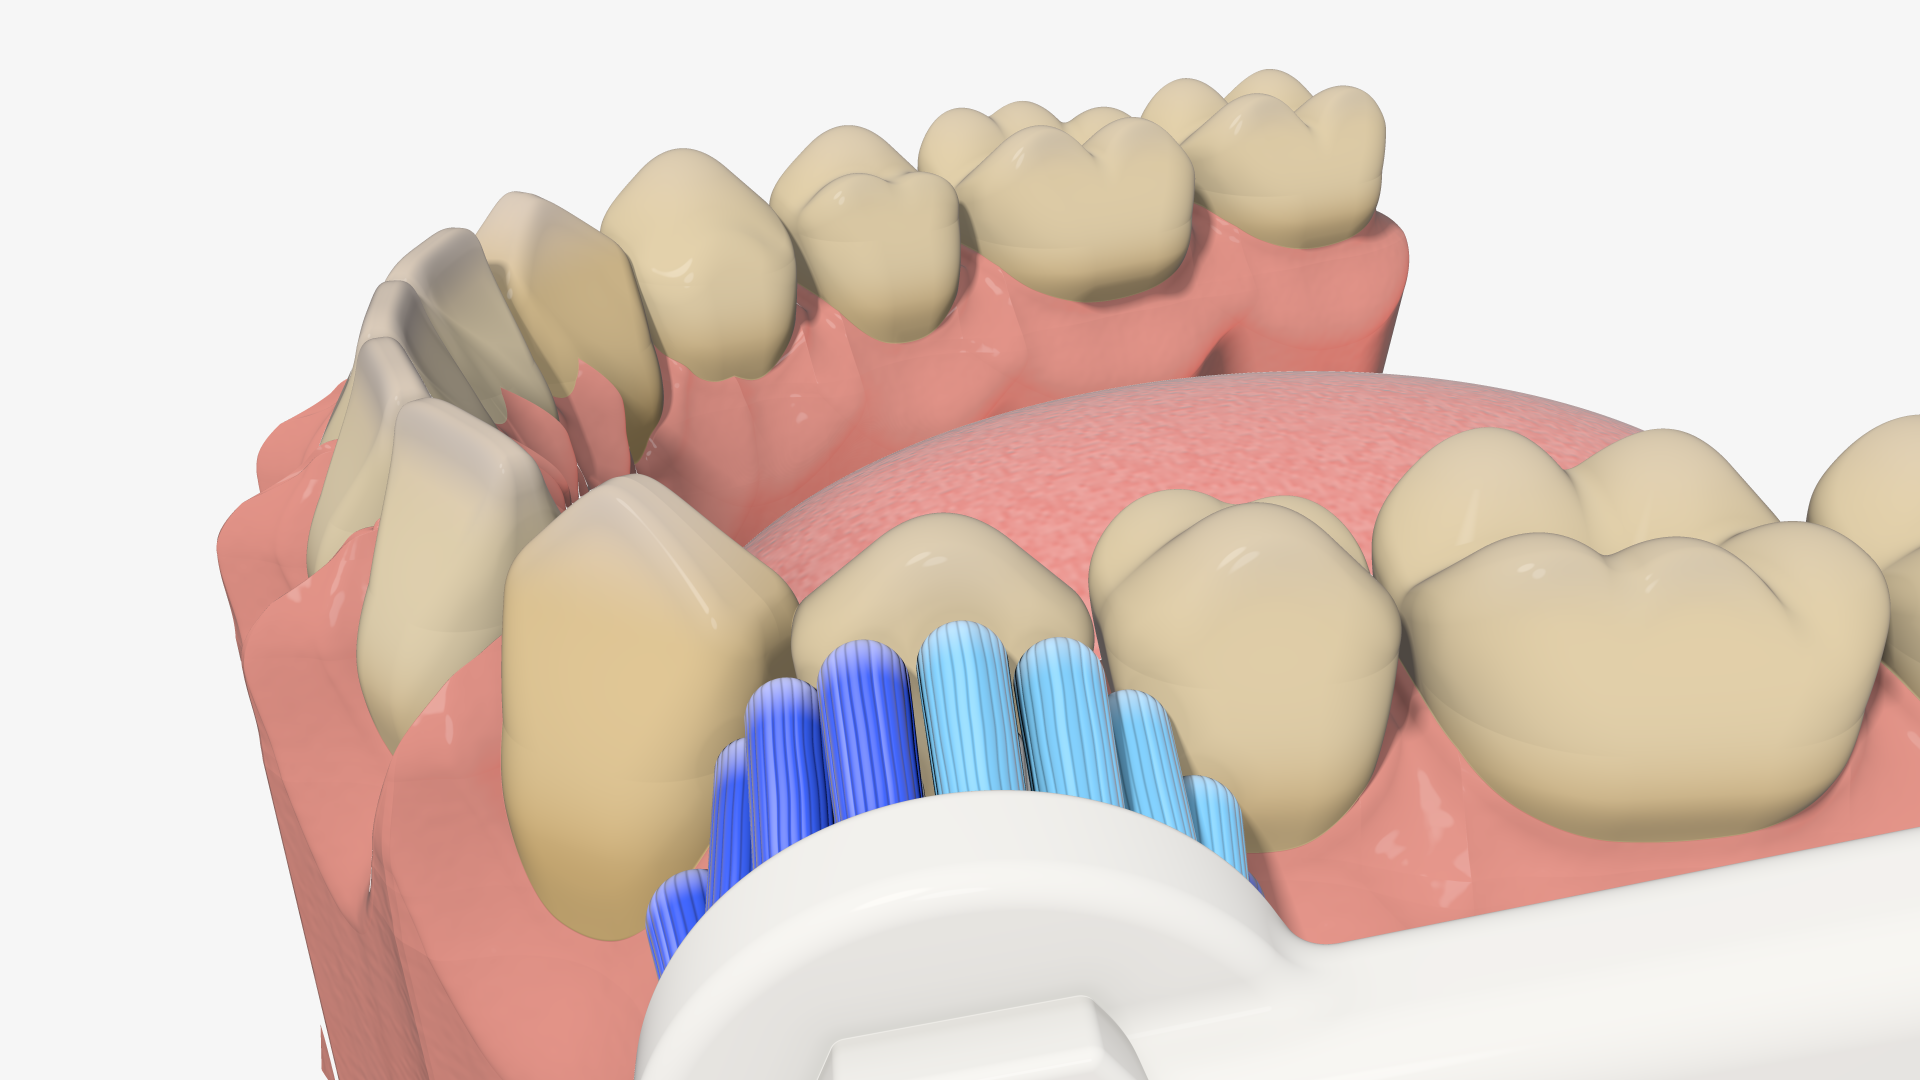
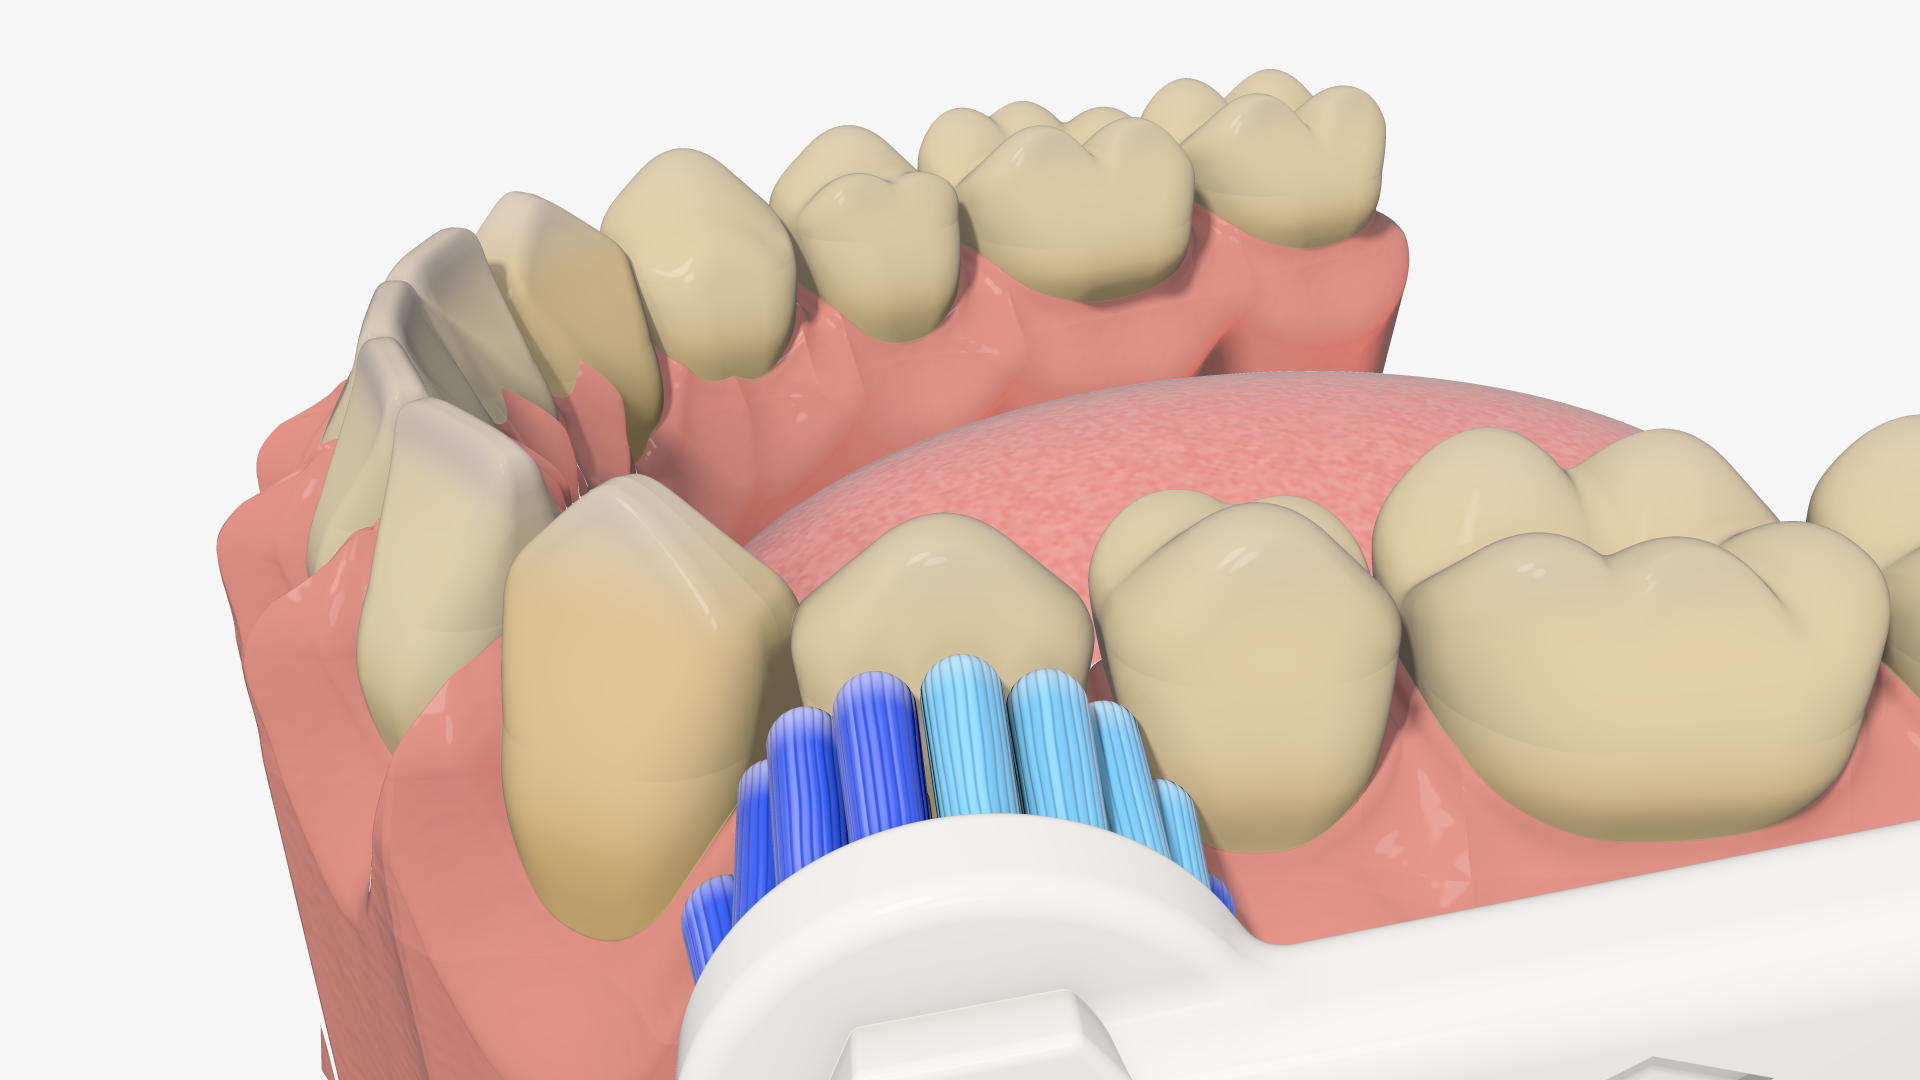
Step 22: a slightly smaller brush head, 11.5 mm instead of 13
The 13 mm head, from Oral-B's own "approximately 13mm" for its classic
round cup, read too big beside a 7 mm premolar. No maker publishes the
Precision Clean's millimetres; reviewers call it the smallest of the
standard round heads, and the newer iO is 2 mm wider than the
CrossAction (Clin Oral Investig 2024). So 11.5 mm, marked MODEL, with
the whole head scaled together to keep the photo's proportions and the
tufts at the bottom of Braun's patented 1.5-1.7 mm. Contact is still
cast from geometry: 0.00000 mm, none through; 10/10, both mutants
caught. README numbers updated to match.

Claude-Session: https://claude.ai/code/session_01Sx815ZFMDKuTuxMQYVftV1

diff --git a/step022_brush/Sources/Brush.swift b/step022_brush/Sources/Brush.swift
@@ -37,41 +37,52 @@ let brushedToothIndex: Int = 3
 
 // MARK: - the head, in sourced sizes
 
-/// Diameter of the round head. "The cup-shaped brush head has a diameter of
-/// approximately 13mm" (Oral-B's professional education site, dentalcare.ca,
-/// "Round for a reason"). That is for the maker's own round heads; the head in
-/// the photos is the same design, so its disc is taken as 13 mm.
-let headDiameter: Float = 13.0
+/// Diameter of the round head: 11.5 mm. The first render used 13 mm, from
+/// "the cup-shaped brush head has a diameter of approximately 13mm" (Oral-B's
+/// professional education site, dentalcare.ca, "Round for a reason"), and it
+/// read too big beside a 7 mm premolar. Russell asked for it slightly smaller.
+/// What the sources give: the 13 mm figure is for Oral-B's classic round
+/// cup; the newer iO head is 2 mm WIDER than the CrossAction ("Cleansing
+/// efficacy of the electric toothbrush Oral-B iO...", Clin Oral Investig 2024,
+/// PMC11339098); and reviewers call the Precision Clean — the design in the
+/// photos — the smallest of the maker's standard round heads (animated-teeth
+/// .com). No maker publishes its millimetres. MODEL: 11.5 mm, a little under
+/// the classic 13, and every other part of the head scales with it by
+/// `headScale`, so the brush keeps the proportions of the one in the photos.
+let headDiameter: Float = 11.5
+/// How much smaller than the first render's 13 mm head everything is.
+let headScale: Float = headDiameter / 13.0
 
 /// Thickness of the disc that carries the tufts. MODEL: in the side-on photo
 /// the disc is about a quarter of its own diameter thick.
-let carrierThickness: Float = 3.0
+let carrierThickness: Float = 3.0 * headScale
 
 /// The hexagonal boss on the back of the disc: across its flats, and how far
 /// it stands proud. MODEL: in the photo of the back it spans a little under
 /// six tenths of the disc, and stands about half the disc's thickness.
-let hexAcrossFlats: Float = 7.5
-let hexHeight: Float = 1.5
+let hexAcrossFlats: Float = 7.5 * headScale
+let hexHeight: Float = 1.5 * headScale
 
 /// The neck: width and thickness where it meets the head and where it leaves
 /// the frame, and how long a piece of it is modelled. MODEL, from the photos:
 /// the neck is about four tenths of the disc wide at the head and widens
 /// steadily towards the handle.
-let neckWidthNear: Float = 5.0
-let neckWidthFar: Float = 8.0
-let neckThickNear: Float = 3.8
-let neckThickFar: Float = 5.5
+let neckWidthNear: Float = 5.0 * headScale
+let neckWidthFar: Float = 8.0 * headScale
+let neckThickNear: Float = 3.8 * headScale
+let neckThickFar: Float = 5.5 * headScale
 let neckLength: Float = 60.0
 /// How far behind the disc's front face the neck's front face sits. MODEL:
 /// in the side-on photo the neck runs along the back half of the disc.
-let neckSetBack: Float = 0.8
+let neckSetBack: Float = 0.8 * headScale
 
 // MARK: - the tufts, in sourced sizes
 
 /// Diameter of one tuft. "Standard tufts with a diameter of between 1.5 mm
 /// and 1.7 mm" (Braun GmbH, US 6,957,468 B2, "Toothbrush head with
-/// anchor-free bristle tufting", 2005). The middle of that range.
-let tuftDiameter: Float = 1.6
+/// anchor-free bristle tufting", 2005). The bottom of that range, so sixteen
+/// still fit round the smaller head (the first render used the middle, 1.6).
+let tuftDiameter: Float = 1.5
 
 /// Diameter of one filament: "nylon 6,12 filaments typically having a
 /// diameter of 0.15–0.25 mm, often 0.2 mm" (Unilever, EP 1 014 830 B1,
@@ -85,8 +96,9 @@ let filamentDiameter: Float = 0.2
 /// (6.5–9 mm against 13 mm). Manual-brush patents give 9 ± 1 mm for short
 /// tufts and 13 ± 1 mm for long ones (US 2010/0180392 A1, "Toothbrush with long
 /// tapered bristles and short non-tapered bristles"); a round oscillating head
-/// is smaller, and 8 mm sits at the photo's middle.
-let restLength: Float = 8.0
+/// is smaller, and 8 mm sat at the photo's middle for a 13 mm head — scaled
+/// with the head, so the tufts keep the photo's proportions.
+let restLength: Float = 8.0 * headScale
 
 /// The rim: a ring of 16 equal tufts, as in the round oscillating head of
 /// US 9,332,828 B2 ("Brush head for an electric toothbrush", Ranir LLC, 2016),
@@ -95,14 +107,15 @@ let restLength: Float = 8.0
 /// `tuftDiameter` fit with `tuftGap` between neighbours.
 let rimTuftCount: Int = 16
 /// Clear space between neighbouring tufts' bases. MODEL: the moulded walls
-/// between tuft holes are 0.2–0.3 mm thick (US 6,957,468 B2, as above).
-let tuftGap: Float = 0.3
+/// between tuft holes are 0.2–0.3 mm thick (US 6,957,468 B2, as above). The
+/// thin end, for the smaller head.
+let tuftGap: Float = 0.2
 let rimRadius: Float = Float(rimTuftCount) * (tuftDiameter + tuftGap) / (2 * Float.pi)
 /// The white centre: one tuft and a ring of eight round it. MODEL: the photo
 /// of the face shows a white centre about half the field across; the patent
 /// above puts two rings of six there, which the photo does not show.
 let innerTuftCount: Int = 8
-let innerRadius: Float = 2.6
+let innerRadius: Float = 2.6 * headScale
 
 /// How much a pressed tuft splays: its tip widens by `splayGrowth` × its
 /// fractional compression, and leans outward from the head's centre by
@@ -532,6 +545,8 @@ func brushExtra(_ brush: Brush) -> SceneExtra {
         constant float3 BR_NECK_END = \(metal(neckEnd));
         constant float BR_NECK_R = \(neckRadius);
         constant float HEAD_R = \(headDiameter / 2);
+        constant float DIAMOND_X = \(13.0 * headScale);
+        constant float SLOT_X = \(17.0 * headScale);
         constant float CARRIER_T = \(carrierThickness);
         constant float HEX_F = \(hexAcrossFlats / 2);
         constant float HEX_H = \(hexHeight);
@@ -619,11 +634,11 @@ func brushExtra(_ brush: Brush) -> SceneExtra {
             float neck = roundBox(nq, float3(NECK_LEN * 0.5, hw, ht), min(hw, ht) * 0.7);
             // The diamond-shaped recess on the back of the neck, and the slot
             // on its front.
-            float2 dq = abs(float2(q.x - 13.0, q.y));
+            float2 dq = abs(float2(q.x - DIAMOND_X, q.y));
             float rhomb = (dq.x * 1.0 + dq.y * 2.2 - 2.2) / sqrt(1.0 + 2.2 * 2.2);
             float back = -(q.z + NECK_BACK + 2.0 * ht);
             float diamond = max(rhomb, abs(back) - 0.35);
-            float2 sq = float2(max(abs(q.x - 17.0) - 1.4, 0.0), q.y);
+            float2 sq = float2(max(abs(q.x - SLOT_X) - 1.4, 0.0), q.y);
             float slot = max(length(sq) - 0.55, abs(q.z + NECK_BACK) - 0.9);
             neck = max(neck, -diamond);
             neck = max(neck, -slot);

diff --git a/README.md b/README.md
@@ -261,11 +261,11 @@ Building it also caught an error in step 20: its comments had **left and right m
 
 ![The step 20 lower arch, same camera and light, with a round electric toothbrush head at the bottom of the frame pressing its dark-blue and light-blue tufts against the cheek side of a premolar where it meets the gum; the tufts pressed hardest are shorter and splay slightly](showcase/brush.png)
 
-Step 20's still, untouched, with a round oscillating toothbrush head pressed against the cheek side of **#21**, the patient's left lower first premolar, right at the gumline where brushing is aimed. Modelled on Russell's own brush: a 13 mm head with a rim of sixteen tufts, 1.6 mm each, in dark and light blue, sized from dental and patent sources and coloured from his photographs.
+Step 20's still, untouched, with a round oscillating toothbrush head pressed against the cheek side of **#21**, the patient's left lower first premolar, right at the gumline where brushing is aimed. Modelled on Russell's own brush: an **11.5 mm** head with a rim of sixteen 1.5 mm tufts in dark and light blue, coloured from his photographs. The first render used Oral-B's own "approximately 13mm" for its classic round head and read too big beside a 7 mm premolar; no maker publishes the smaller Precision Clean's size, so it is a little under the classic figure and marked as an estimate, with every part of the head scaled together so it keeps the photographed proportions.
 
-The point of the step is that **contact comes from the geometry, not the eye**. Each tuft is fired along its own axis at step 20's distance function and stopped where it meets the tooth or the gum, to about a micron; the head is pressed in until the tuft with furthest to go just arrives at its full 8 mm, and every other tuft is as much shorter as the surface in front of it is nearer — 4.35 mm to 8 mm. The ones pressed hardest splay. The largest gap between any tuft tip and a surface is 0.00000 mm, and 78,125 points inside the tufts confirm none passes through. Lift the brush a millimetre, or push it a millimetre in, and a test fails.
+The point of the step is that **contact comes from the geometry, not the eye**. Each tuft is fired along its own axis at step 20's distance function and stopped where it meets the tooth or the gum, to about a micron; the head is pressed in until the tuft with furthest to go just arrives at its full 7.1 mm, and every other tuft is as much shorter as the surface in front of it is nearer — 3.97 mm to 7.08 mm. The ones pressed hardest splay. The largest gap between any tuft tip and a surface is 0.00000 mm, and 78,125 points inside the tufts confirm none passes through. Lift the brush a millimetre, or push it a millimetre in, and a test fails.
 
-Step 20 gained an optional hook for extra scenery and changed not a pixel — its render still hashes identically. Two compromises are visible: at this camera the 13 mm head cannot fit below the gumline, so the frame cuts it off and hides its white centre tufts; and the neck leaves through the right edge, where a real one would come from between the lips. Code: [`step022_brush/`](step022_brush/)
+Step 20 gained an optional hook for extra scenery and changed not a pixel — its render still hashes identically. Two compromises are visible: at this camera the head still cannot fit below the gumline, so the frame cuts it off and hides its white centre tufts; and the neck leaves through the right edge, where a real one would come from between the lips. Code: [`step022_brush/`](step022_brush/)
 
 ### Step 23: Secretory diarrhea (cholera-type)
 
